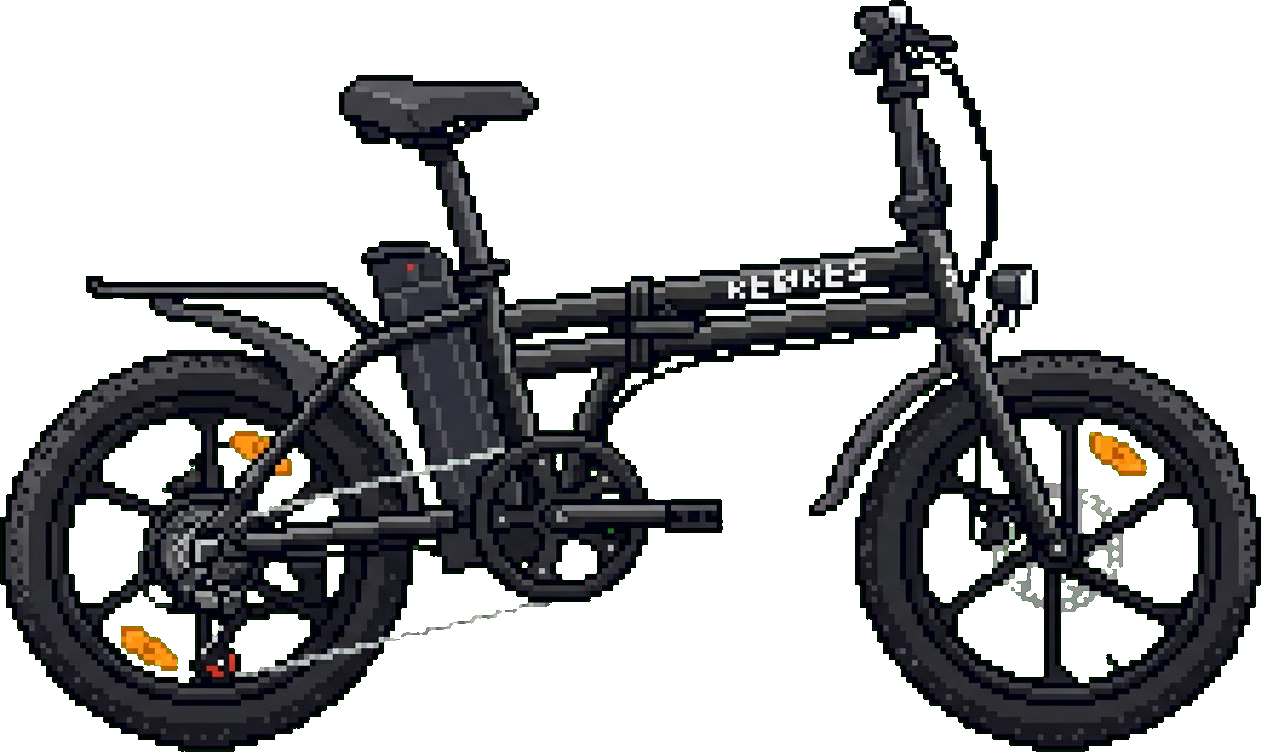
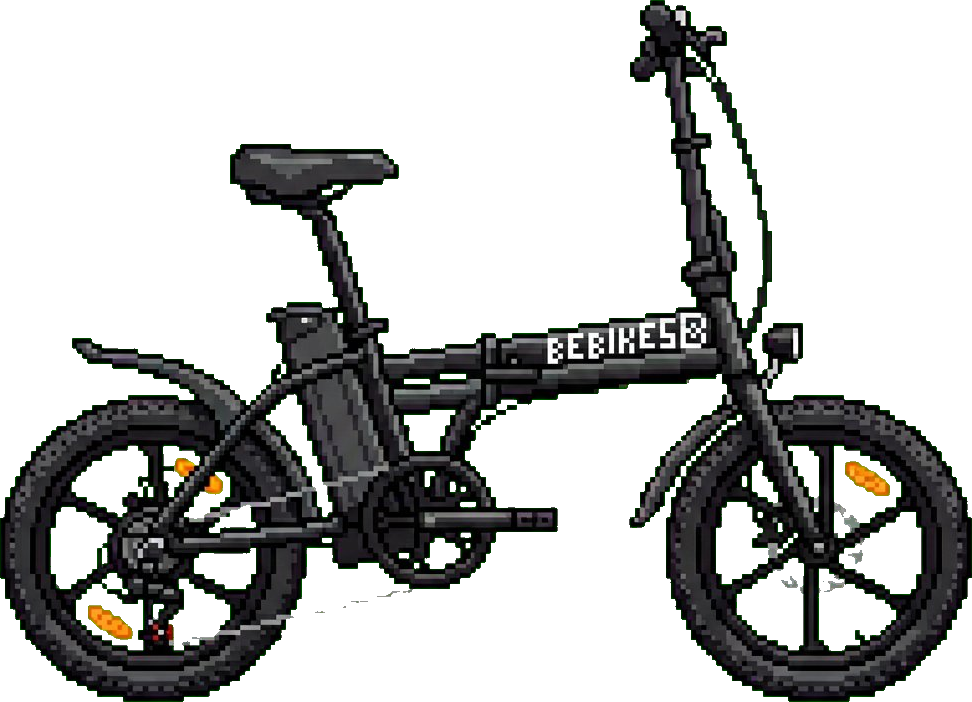
update
update

diff --git a/projects/eco_rider/index.html b/projects/eco_rider/index.html
@@ -1236,9 +1236,9 @@ const BIKE_ART={
   },
   mini:{
     body:'mini-body.png',
-    ref:[986,688], refOrigin:[0,0], refBBox:[986,688],
-    px:{back:[95,528],front:[910,530],crank:[470,540],seat:[350,82],bar:[790,25]},
-    bodyWheelRadius:140, targetWheelbase:48, full:'mini-full.png'
+    ref:[748,624], refOrigin:[0,0], refBBox:[748,624],
+    px:{back:[62,513],front:[705,510],crank:[375,458],seat:[240,135],bar:[595,35]},
+    bodyWheelRadius:150, targetWheelbase:48, full:'mini-full.png'
   }
 };
 function alphaBBox(img){               // may throw SecurityError on file://
